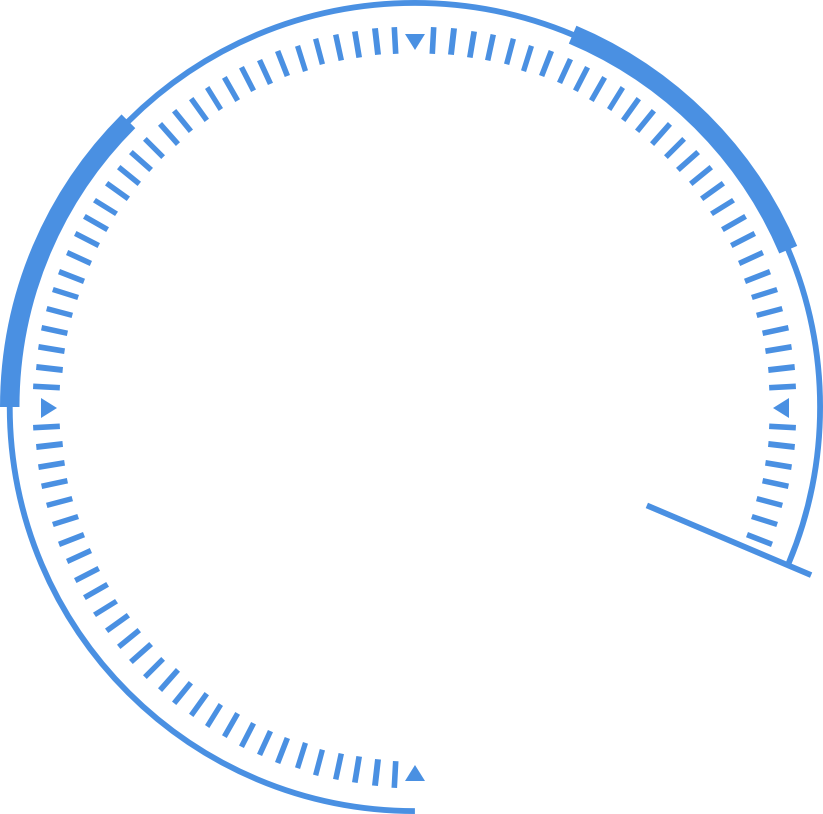
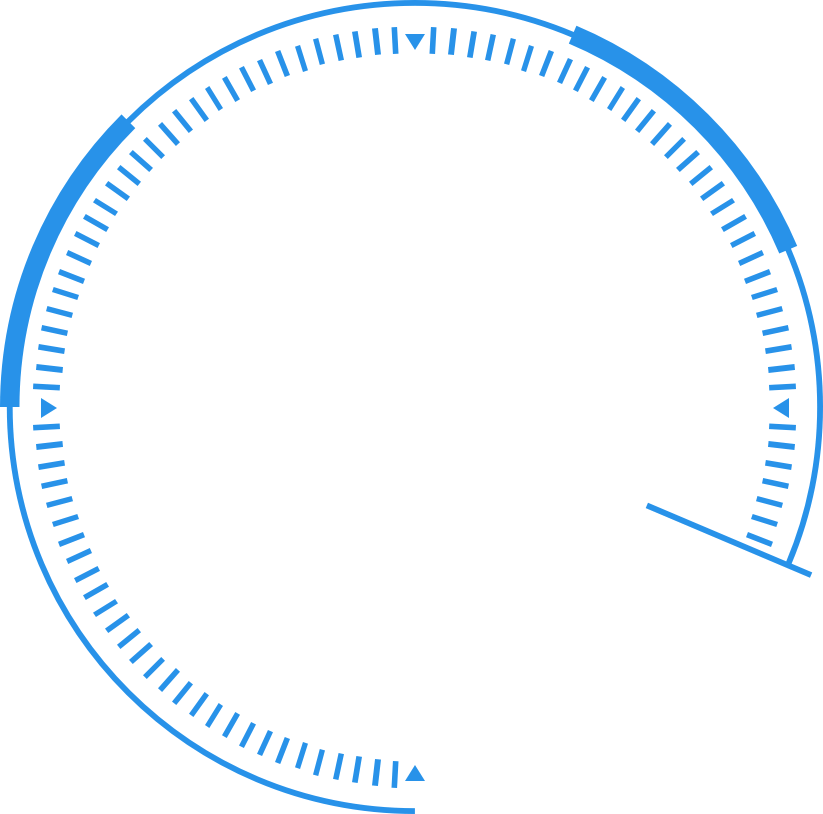
basic: compress image

diff --git a/assets/css/main.css b/assets/css/main.css
@@ -266,8 +266,8 @@
     filter: hue-rotate(360deg);
   }
   100% {
-    -webkit-filter: hue-rotate(0deg);
-    filter: hue-rotate(0deg);
+    -webkit-filter: hue-rotate(720deg);
+    filter: hue-rotate(720deg);
   }
 }
 
@@ -281,8 +281,8 @@
     filter: hue-rotate(360deg);
   }
   100% {
-    -webkit-filter: hue-rotate(0deg);
-    filter: hue-rotate(0deg);
+    -webkit-filter: hue-rotate(720deg);
+    filter: hue-rotate(720deg);
   }
 }
 
@@ -419,6 +419,27 @@
 /*---slide2 bg---*/
 .slide-inner--image {
   background-image: url("../../assets/images/home-slider/HUD-bg.jpg");
+}
+
+.slide-inner--image .slide-inner--HUD-back {
+  position: absolute;
+  background-image: url("../../assets/images/home-slider/HUD-back.png");
+  width: 100%;
+  height: 100%;
+  background-size: cover;
+  background-position: center;
+  z-index: 9999;
+  mix-blend-mode: lighten;
+  -webkit-animation-name: robot-bg;
+  animation-name: robot-bg;
+  -webkit-animation-duration: 3s;
+  animation-duration: 3s;
+  -webkit-animation-timing-function: ease;
+  animation-timing-function: ease;
+  -webkit-animation-fill-mode: both;
+  animation-fill-mode: both;
+  -webkit-animation-iteration-count: infinite;
+  animation-iteration-count: infinite;
 }
 
 .slide-inner--image .slide-inner--HUD-screen {

diff --git a/src/css/main.scss b/src/css/main.scss
@@ -163,7 +163,7 @@
     filter: hue-rotate(360deg);
   }
   100% {
-    filter: hue-rotate(0deg);
+    filter: hue-rotate(720deg);
   }
 }
 @keyframes robot-lens {
@@ -217,6 +217,21 @@
 /*---slide2 bg---*/
 .slide-inner--image {
   background-image: url('../../assets/images/home-slider/HUD-bg.jpg');
+  .slide-inner--HUD-back {
+    position: absolute;
+    background-image: url('../../assets/images/home-slider/HUD-back.png');
+    width: 100%;
+    height: 100%;
+    background-size: cover;
+    background-position: center;
+    z-index: 9999;
+    mix-blend-mode: lighten;
+    animation-name: robot-bg;
+    animation-duration: 3s;
+    animation-timing-function: ease;
+    animation-fill-mode: both;
+    animation-iteration-count: infinite;
+  }
   .slide-inner--HUD-screen {
     position: absolute;
     background-image: url('../../assets/images/home-slider/HUD-screen.png');

diff --git a/index.html b/index.html
@@ -55,6 +55,7 @@
               <div class="slide-inner" data-swiper-parallax="45%">
                 <div class="overlay"></div>
                 <div class="slide-inner--image">
+                  <div class="slide-inner--HUD-back"></div>
                   <div class="slide-inner--HUD-screen"></div>
                   <div class="slide-inner--HUD">
                     <div class="slide-inner--HUD-box">
